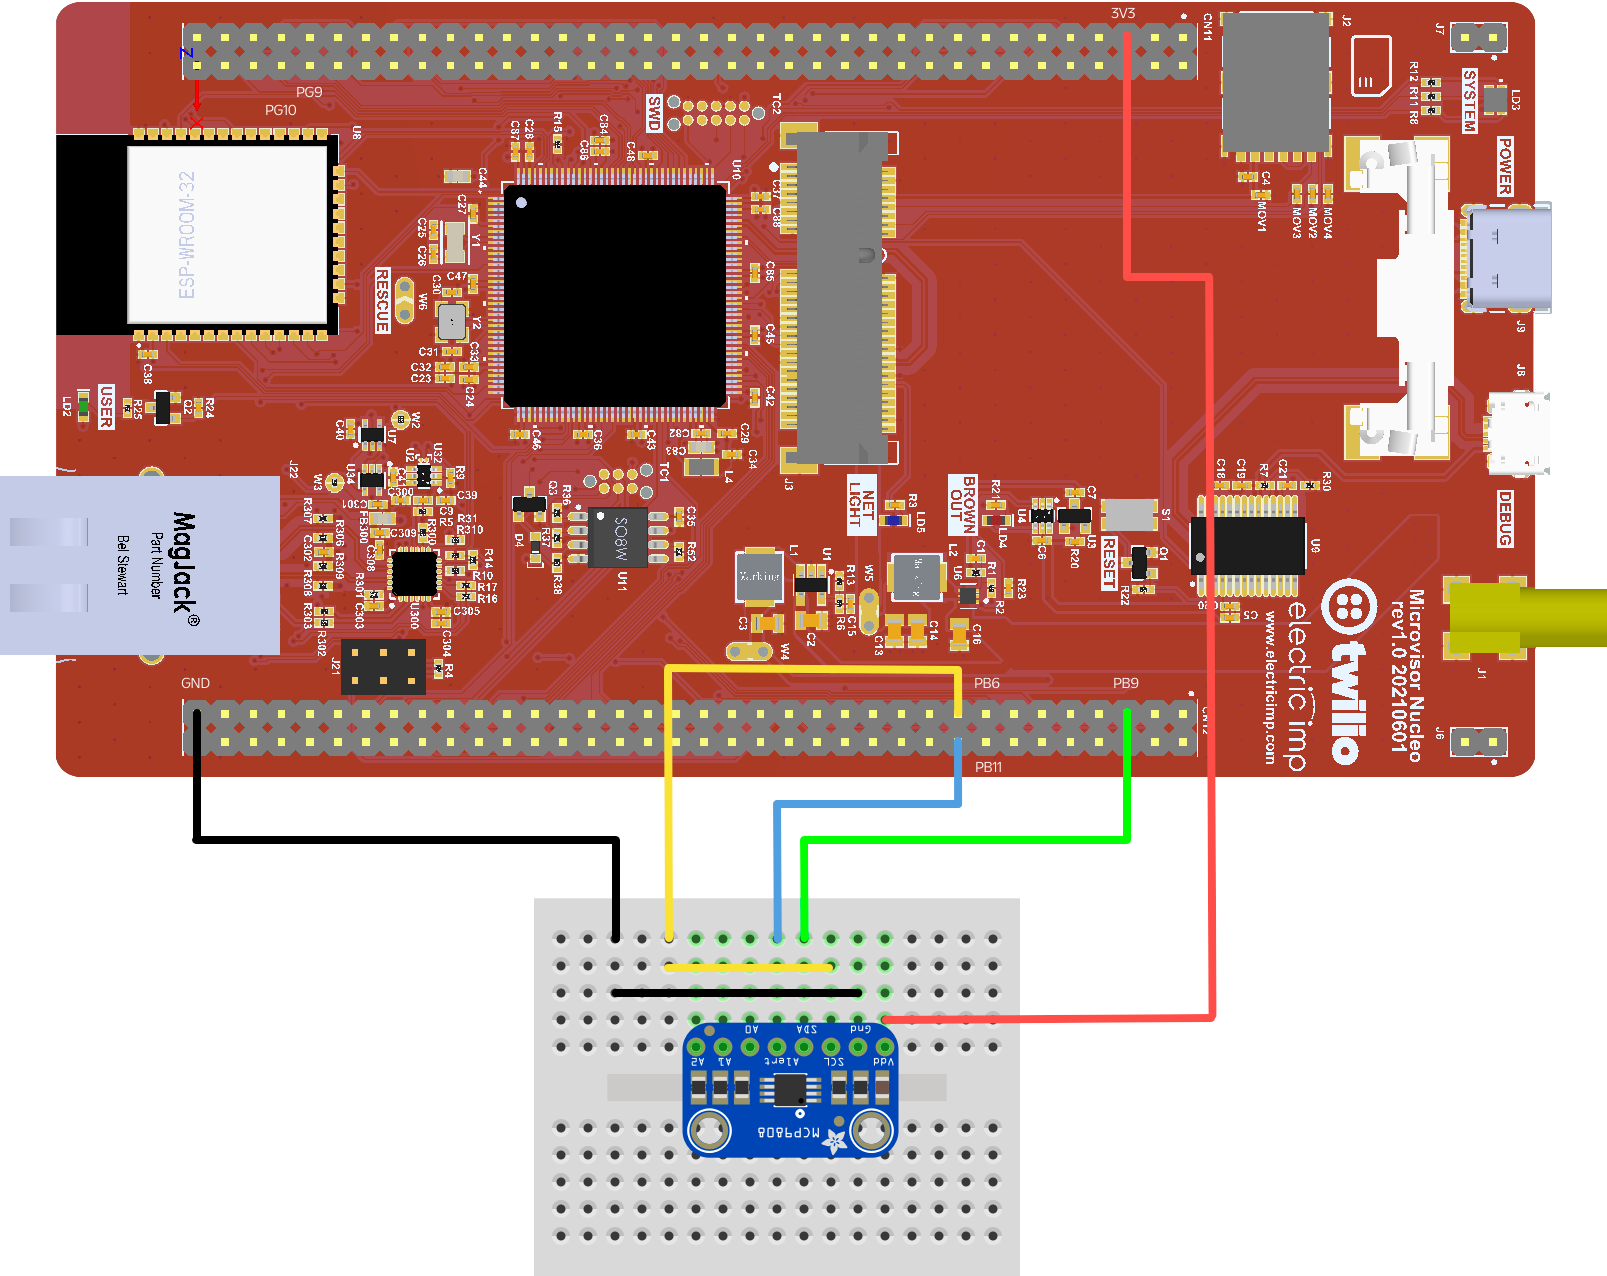
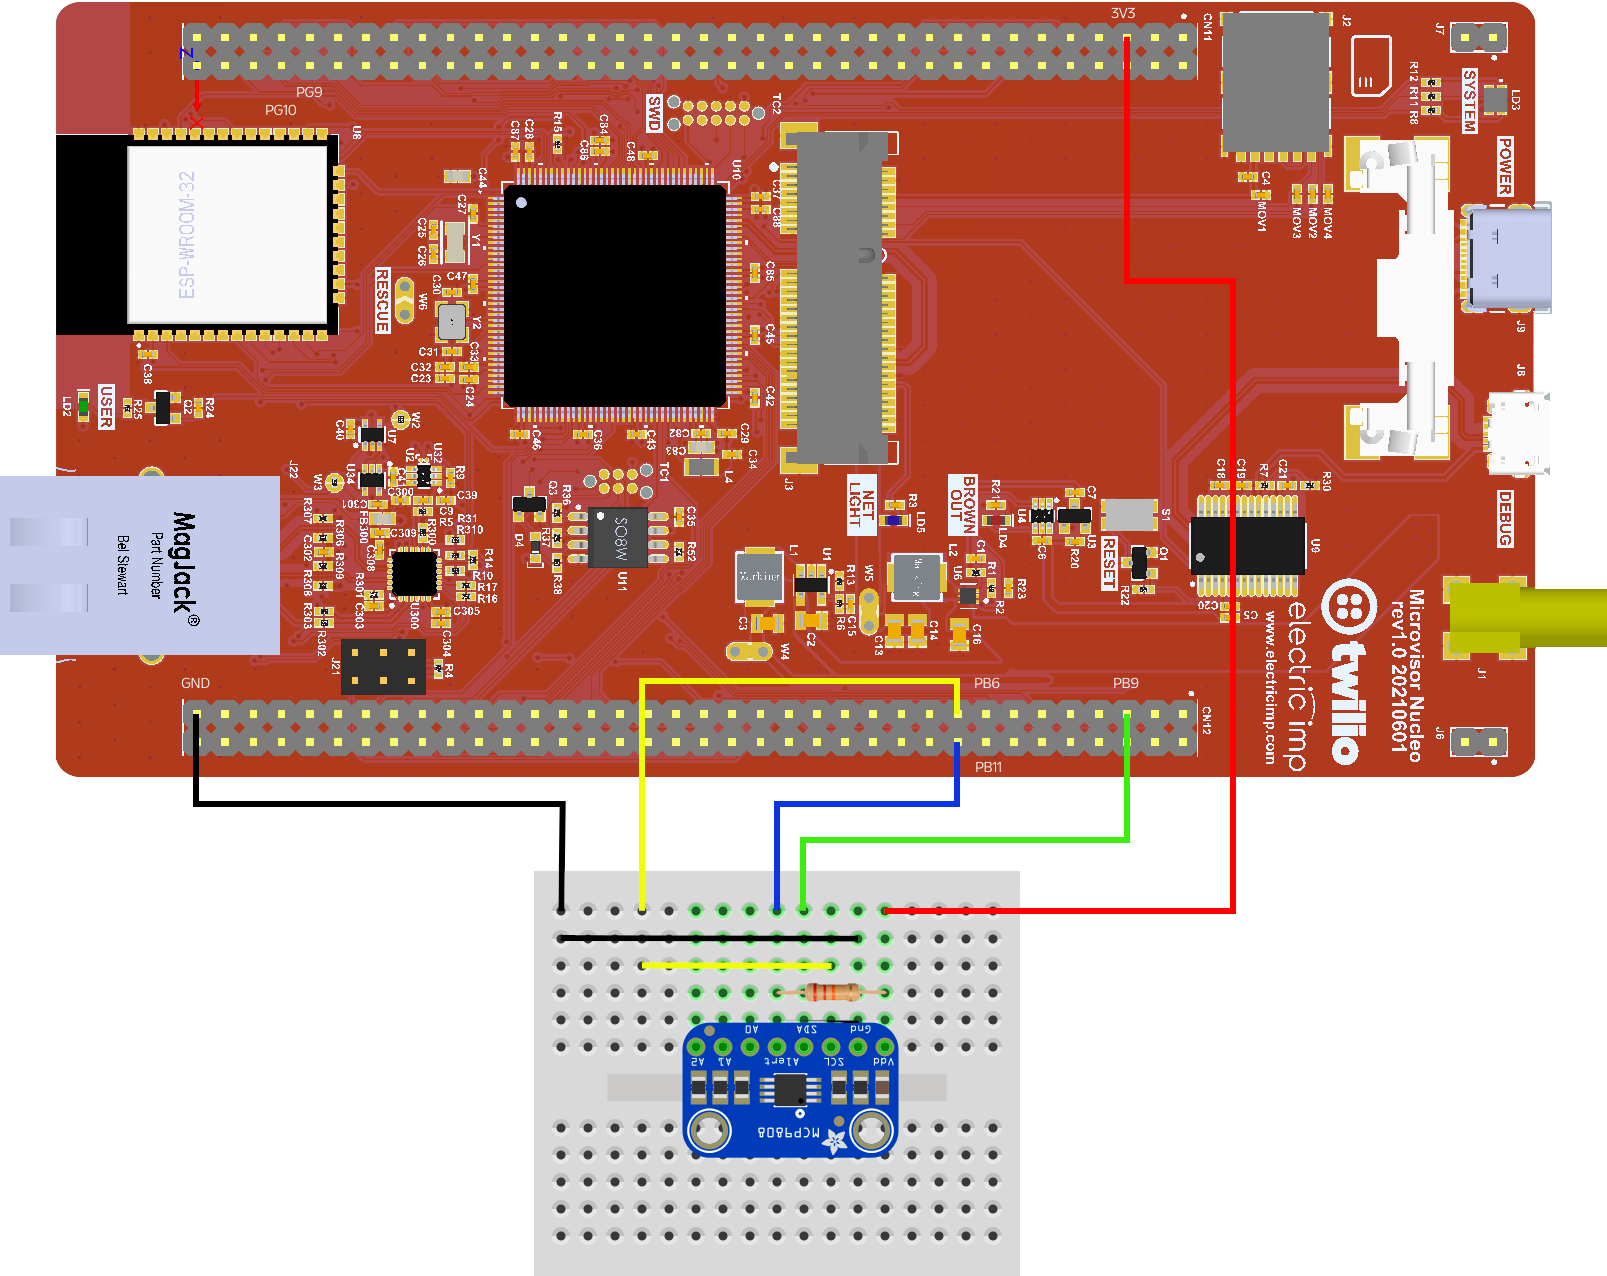
Code tidy; add pull-up resistor to image

Changed region(s): [[0.1245, 0.0306, 0.7778, 0.8252]]

diff --git a/Demo/mcp9808.c b/Demo/mcp9808.c
@@ -52,7 +52,6 @@ bool MCP9808_init(void) {
     const uint16_t mid_value = (mid_data[0] << 8) | mid_data[1];
     const uint16_t did_value = (did_data[0] << 8) | did_data[1];
     
-
     // Return false on data error
     if (mid_value != 0x0054 || did_value != 0x0400) {
         server_error("MCP9808 reported Manufacturer ID: 0x%04x, Device ID: 0x%04x", mid_value, did_value);
@@ -94,20 +93,16 @@ double MCP9808_read_temp(void) {
 void MCP9808_clear_alert(bool do_enable) {
 
     // Read the current reg value
-    uint8_t config_data[3] = {0};
-    uint8_t reg = MCP9808_REG_CONFIG;
-    HAL_I2C_Master_Transmit(&i2c, MCP9808_ADDR << 1, &reg, 1, 100);
+    uint8_t config_data[3] = { MCP9808_REG_CONFIG, 0, 0 };
+    HAL_I2C_Master_Transmit(&i2c, MCP9808_ADDR << 1, config_data, 1, 100);
     HAL_I2C_Master_Receive(&i2c, MCP9808_ADDR << 1, &config_data[1], 2, 200);
 
-    // Set LSB bit 5 to clear the interrupt, 
-    //         bit 1 to set the active high,
-    //         bit 0 to set the interrupt mode
-    config_data[0] = reg;
-    //config_data[2] = 0x20;
-    // MCP9808_CONFIG_CLR_ALRT_INT | 
-    // Enable/disable the alert
+    // Clear the alert (clear bit 5)
+    config_data[2] &= MCP9808_CONFIG_CLEAR_ALERT;
+    
+    // Enable/disable the alert (bit 4)
     if (do_enable) {
-        config_data[2] |= MCP9808_CONFIG_ENABLE_ALRT;
+        config_data[2] |= MCP9808_CONFIG_ENABLE_ALERT;
     }
 
     // Write config data back with changes
@@ -115,7 +110,7 @@ void MCP9808_clear_alert(bool do_enable) {
 
     // Read it back to apply?
     uint8_t check_data[2] = {0};
-    HAL_I2C_Master_Transmit(&i2c, MCP9808_ADDR << 1, &reg, 1, 100);
+    HAL_I2C_Master_Transmit(&i2c, MCP9808_ADDR << 1, config_data, 1, 100);
     HAL_I2C_Master_Receive(&i2c, MCP9808_ADDR << 1, check_data, 2, 200);
 
     // Check the two values: READ LSB == WRITE & 0xDF
@@ -134,7 +129,7 @@ void MCP9808_set_upper_limit(uint16_t upper_temp) {
 
     limit_upper = upper_temp;
     MCP9808_set_temp_limit(MCP9808_REG_UPPER_TEMP, upper_temp);
-    server_log("MCP9808 Hi Temp Set: %02i", upper_temp);
+    server_log("MCP9808 Hi Temp Set: %02i°C", upper_temp);
 }
 
 
@@ -147,7 +142,7 @@ void MCP9808_set_critical_limit(uint16_t critical_temp) {
 
     limit_critical = critical_temp;
     MCP9808_set_temp_limit(MCP9808_REG_CRIT_TEMP, critical_temp);
-    server_log("MCP9808 Crit Temp Set: %02i", critical_temp);
+    server_log("MCP9808 Crit Temp Set: %02i°C", critical_temp);
 }
 
 
@@ -160,7 +155,7 @@ void MCP9808_set_lower_limit(uint16_t lower_temp) {
 
     limit_lower = lower_temp;
     MCP9808_set_temp_limit(MCP9808_REG_LOWER_TEMP, lower_temp);
-    server_log("MCP9808 Lo Temp Set: %02i", lower_temp);
+    server_log("MCP9808 Lo Temp Set: %02i°C", lower_temp);
 }
 
 
@@ -187,7 +182,7 @@ static void MCP9808_set_temp_limit(uint8_t temp_register, uint16_t temp) {
 /**
  * @brief Calculate the temperature.
  *
- * @retval The temperature in Celsius.
+ * @returns The temperature in Celsius.
  */
 static double MCP9808_get_temp(uint8_t* data) {
 
@@ -197,6 +192,13 @@ static double MCP9808_get_temp(uint8_t* data) {
     return temp_cel;
 }
 
+
+/**
+ * @brief ALert state checker, used for debugging.
+ * 
+ * @returns `true` if the config register indicates an alert has been triggered,
+ *          otherwise `false`.
+ */
 bool MCP9808_get_alert_state(void) {
 
     uint8_t config_data[3] = { MCP9808_REG_CONFIG, 0, 0 };

diff --git a/Demo/mcp9808.h b/Demo/mcp9808.h
@@ -6,8 +6,8 @@
  * Licence: MIT
  *
  */
-#ifndef _MCP9808_HEADER_
-#define _MCP9808_HEADER_
+#ifndef MCP9808_HEADER
+#define MCP9808_HEADER
 
 
 /*
@@ -25,10 +25,10 @@
 #define MCP9808_REG_MANUF_ID            0x06
 #define MCP9808_REG_DEVICE_ID           0x07
 
-#define MCP9808_CONFIG_CLR_ALRT_INT     0x20
-#define MCP9808_CONFIG_ENABLE_ALRT      0x08
-#define MCP9808_CONFIG_ALRT_POL         0x02
-#define MCP9808_CONFIG_ALRT_MODE        0x01
+#define MCP9808_CONFIG_CLEAR_ALERT      0xDF
+#define MCP9808_CONFIG_ENABLE_ALERT     0x08
+#define MCP9808_CONFIG_ALERT_POL        0x02
+#define MCP9808_CONFIG_ALERT_MODE       0x01
 
 #define DEFAULT_TEMP_LOWER_LIMIT_C      10
 #define DEFAULT_TEMP_UPPER_LIMIT_C      30
@@ -43,13 +43,13 @@ extern "C" {
 /*
  *  PROTOTYPES
  */
-bool        MCP9808_init(void) ;
-double      MCP9808_read_temp(void);
-void        MCP9808_clear_alert(bool do_enable);
-void        MCP9808_set_upper_limit(uint16_t upper_temp);
-void        MCP9808_set_critical_limit(uint16_t critical_temp);
-void        MCP9808_set_lower_limit(uint16_t lower_temp);
-bool        MCP9808_get_alert_state(void);
+bool    MCP9808_init(void) ;
+double  MCP9808_read_temp(void);
+void    MCP9808_clear_alert(bool do_enable);
+void    MCP9808_set_upper_limit(uint16_t upper_temp);
+void    MCP9808_set_critical_limit(uint16_t critical_temp);
+void    MCP9808_set_lower_limit(uint16_t lower_temp);
+bool    MCP9808_get_alert_state(void);
 
 
 #ifdef __cplusplus
@@ -57,4 +57,4 @@ bool        MCP9808_get_alert_state(void);
 #endif
 
 
-#endif      // _MCP9808_HEADER_
+#endif  // MCP9808_HEADER

diff --git a/Demo/i2c.c b/Demo/i2c.c
@@ -23,8 +23,10 @@ I2C_HandleTypeDef   i2c;
 
 /**
  * @brief Initialize STM32U585 I2C1.
+ *        NOTE Pins are configured in the HAL callback function
+ *             `HAL_I2C_MspInit()`.
  *
- * @retval `true` if initialization succeeded, otherwise `false`.
+ * @returns `true` if initialization succeeded, otherwise `false`.
  */
 bool I2C_init(void) {
 
@@ -32,7 +34,7 @@ bool I2C_init(void) {
     //   SDA -> PB9
     //   SCL -> PB6
     i2c.Instance              = I2C1;
-    i2c.Init.Timing           = 0x00C01F67;  // FROM ST SAMPLE
+    i2c.Init.Timing           = 0x00C01F67;  // 400kHz, FROM ST SAMPLE
     i2c.Init.AddressingMode   = I2C_ADDRESSINGMODE_7BIT;
     i2c.Init.DualAddressMode  = I2C_DUALADDRESS_DISABLE;
     i2c.Init.OwnAddress1      = 0x00;
@@ -89,13 +91,13 @@ static bool I2C_check(uint8_t target_address) {
 
 
 /**
- * @brief HAL-called function to configure I2C.
+ * @brief HAL-called function to complete I2C configuration.
+ *        Configure your I2C pins here.
+ *        This is called by `HAL_I2C_Init()`.
  *
  * @param i2c: A HAL I2C_HandleTypeDef pointer to the I2C instance.
  */
 void HAL_I2C_MspInit(I2C_HandleTypeDef *i2c) {
-
-    // This SDK-named function is called by HAL_I2C_Init()
 
     // Configure U5 peripheral clock
     RCC_PeriphCLKInitTypeDef PeriphClkInit = { 0 };

diff --git a/Demo/main.c b/Demo/main.c
@@ -107,7 +107,7 @@ int main(void) {
 /**
  * @brief Get the Microvisor clock reading.
  *
- * @retval The clock value.
+ * @returns The clock value.
  */
 uint32_t SECURE_SystemCoreClockUpdate() {
 
@@ -150,7 +150,7 @@ static void init_gpio(void) {
     led_init_data.Speed = GPIO_SPEED_FREQ_VERY_HIGH;
     HAL_GPIO_Init(LED_GPIO_PORT, &led_init_data);
 
-    // Configure GPIO pin for the MCP9808 interrupt (PD8)
+    // Configure GPIO pin for the MCP9808 interrupt
     GPIO_InitTypeDef mcp_init_data = {0};
     mcp_init_data.Pin   = MCP_INT_PIN;
     mcp_init_data.Mode  = GPIO_MODE_IT_FALLING;
@@ -209,9 +209,7 @@ static void task_sensor(void *argument) {
             current_temp = MCP9808_read_temp();
         }
 
-        GPIO_PinState state = HAL_GPIO_ReadPin(MCP_GPIO_PORT, MCP_INT_PIN);
-        bool asserted = MCP9808_get_alert_state();
-        server_log("Current temperature: %.2f°C (PD8 %s, ALRT %s)", current_temp, (state == GPIO_PIN_SET ? "SET" : "CLEAR"), (asserted ? "SET" : "CLEAR"));
+        server_log("Current temperature: %.2f°C", current_temp);
 
         // Yield execution for a period
         vTaskDelay(ping_pause_ticks);

diff --git a/Demo/logging.h b/Demo/logging.h
@@ -6,8 +6,8 @@
  * Licence: MIT
  *
  */
-#ifndef LOGGING_H
-#define LOGGING_H
+#ifndef LOGGING_HEADER
+#define LOGGING_HEADER
 
 
 /*
@@ -34,9 +34,9 @@ extern "C" {
 /*
  * PROTOTYPES
  */
-void            server_log(char* format_string, ...);
-void            server_error(char* format_string, ...);
-void            do_assert(bool condition, char* message);
+void    server_log(char* format_string, ...);
+void    server_error(char* format_string, ...);
+void    do_assert(bool condition, char* message);
 
 
 #ifdef __cplusplus
@@ -44,4 +44,4 @@ void            do_assert(bool condition, char* message);
 #endif
 
 
-#endif /* LOGGING_H */
+#endif  // LOGGING_HEADER

diff --git a/Demo/i2c.h b/Demo/i2c.h
@@ -6,8 +6,8 @@
  * Licence: MIT
  *
  */
-#ifndef _I2C_HEADER_
-#define _I2C_HEADER_
+#ifndef I2C_HEADER
+#define I2C_HEADER
 
 
 #ifdef __cplusplus
@@ -26,4 +26,4 @@ bool I2C_init(void);
 #endif
 
 
-#endif  // _I2C_HEADER_
+#endif  // I2C_HEADER

diff --git a/Demo/logging.c b/Demo/logging.c
@@ -31,6 +31,7 @@ extern UART_HandleTypeDef uart;
 static bool uart_available = false;
 #endif
 
+
 /**
  * @brief  Open a logging channel.
  *

diff --git a/README.md b/README.md
@@ -10,6 +10,8 @@ Do demostrate native FreeRTOS operation, the code uses an MCP9808 temperature se
 
 FreeRTOS’ timer mechanism is used periodically to check for the end of the alert condition: if the temperature has fallen below 30°C, the alert is over, otherwise a new timer is set to check again in 20 seconds' time.
 
+The MCP9808 alert pin is free-floating and must be connected to 3V3 via a pull-up resistor, such as 22k&omega;. An alert will pull this low; the falling signal is detected as an interrupt trigger on the SMT32U585 GPIO pin (PB11) connected to the MCP980 alert pin.
+
 Most of the project files can be found in the [Demo/](Demo/) directory. The [ST_Code/](ST_Code/) directory contains required components that are not part of the Microvisor STM32U5 HAL, which this code accesses as a submodule. FreeRTOS is also incorporated as a submodule. The `FreeRTOSConfig.h` configuration file is located in the [Config/](Config/) directory.
 
 ## Build with Docker (macOS)
